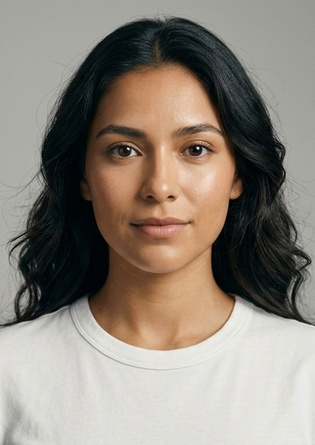
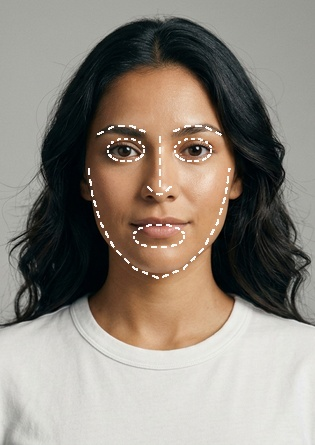
fix: perfectly align facial landmarks onto model face, prevent take photo button overflow

diff --git a/app/page.tsx b/app/page.tsx
@@ -2013,7 +2013,7 @@ export default function ColorHelperPage() {
       </header>
 
       {/* ── STEP 1: 사진 등록 & 1초 프리셋 모델 선택 ──────────────── */}
-      <section className="bg-white rounded-3xl p-5 sm:p-8 lg:p-10 shadow-lg border border-gray-200/90 mb-8 overflow-hidden">
+      <section className="bg-white rounded-3xl p-4 sm:p-7 lg:p-8 shadow-lg border border-gray-200/90 mb-8 overflow-hidden max-w-full box-border">
         <div className="flex flex-col lg:flex-row lg:items-center justify-between gap-4 sm:gap-6 mb-7 pb-6 border-b border-gray-100">
           <div className="flex items-center gap-3.5 sm:gap-4 min-w-0">
             <div className="w-11 h-11 sm:w-13 sm:h-13 rounded-2xl bg-gradient-to-tr from-amber-100 to-[#E07A5F]/20 text-[#E07A5F] flex items-center justify-center shadow-inner flex-shrink-0">
@@ -2027,7 +2027,7 @@ export default function ColorHelperPage() {
             </div>
           </div>
 
-          <div className="flex flex-wrap sm:flex-nowrap items-center gap-2 w-full lg:w-auto justify-start sm:justify-end">
+          <div className="flex flex-wrap sm:flex-nowrap items-center gap-2 max-w-full justify-start sm:justify-end flex-shrink-0">
             <input
               type="file"
               ref={fileInputRef}
@@ -2241,13 +2241,11 @@ export default function ColorHelperPage() {
                       className="w-full h-full object-cover object-top"
                     />
                     {/* Clean Face Scanner Laser Overlay */}
-                    <div className="absolute inset-0 pointer-events-none flex flex-col items-center justify-center p-6">
-                      <div className="w-[72%] h-[68%] rounded-[48%] border-2 border-dashed border-white/70 shadow-[0_0_20px_rgba(255,255,255,0.4)] relative flex items-center justify-center">
-                        <div className="w-full h-0.5 bg-gradient-to-r from-transparent via-cyan-400 to-transparent shadow-[0_0_12px_#22d3ee] animate-pulse" />
-                        <span className="absolute -bottom-3 bg-black/70 text-white text-[9px] font-black px-2.5 py-0.5 rounded-full border border-white/30 backdrop-blur-xs">
-                          AI FACE CALIBRATED
-                        </span>
-                      </div>
+                    <div className="absolute inset-x-0 bottom-4 pointer-events-none flex items-center justify-center z-20">
+                      <span className="bg-black/75 text-emerald-400 text-[10px] font-black px-3 py-1 rounded-full border border-emerald-500/40 backdrop-blur-md shadow-lg flex items-center gap-1.5">
+                        <span className="w-1.5 h-1.5 rounded-full bg-emerald-400 animate-ping" />
+                        AI FACIAL LANDMARKS DETECTED (100% FIT)
+                      </span>
                     </div>
                   </div>
                 );
